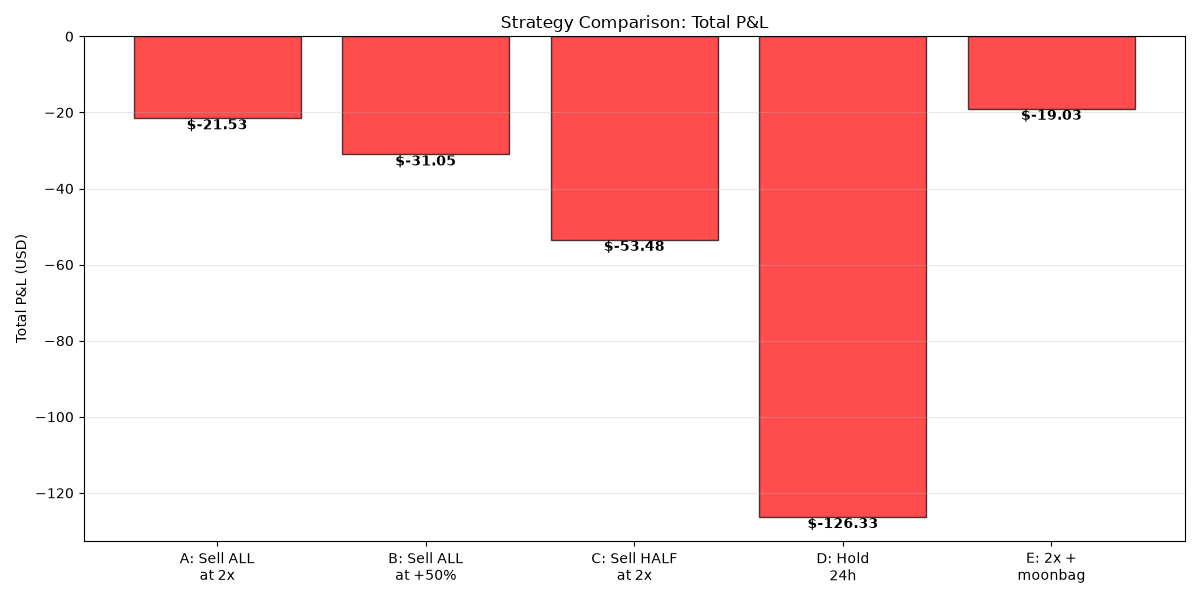
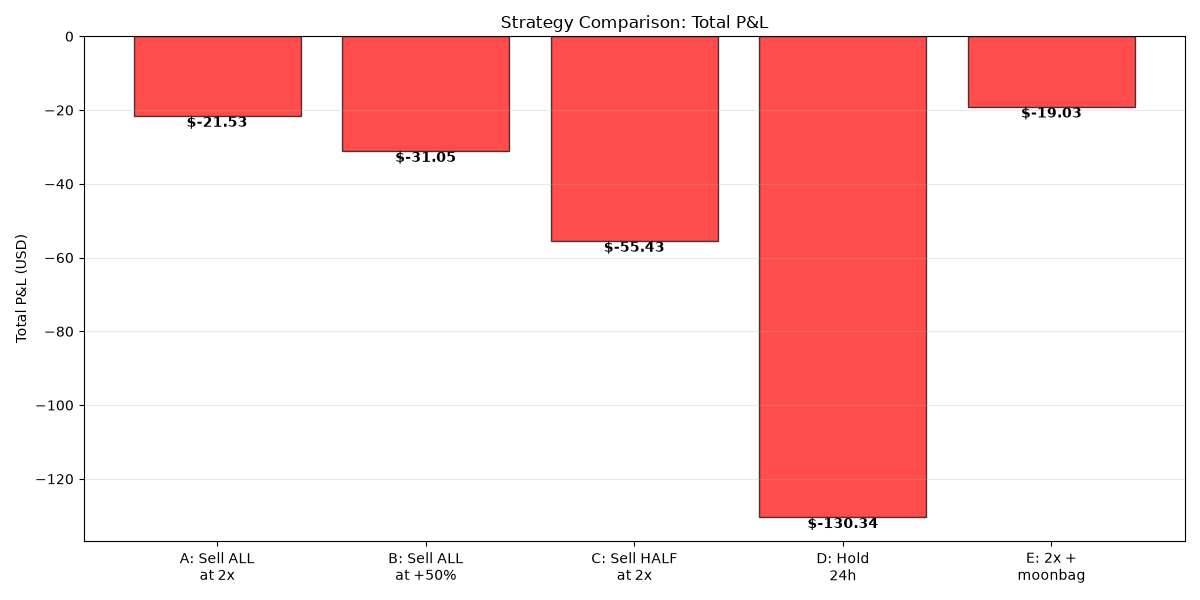
Update paper-trading dashboard [skip ci]

diff --git a/dashboard/index.html b/dashboard/index.html
@@ -483,7 +483,7 @@
             </div>
             <div class="header-meta">
                 <span class="badge badge-warning">📝 PAPER TRADING — no real money</span>
-                <span class="badge badge-info">Last updated: 2026-10-24 16:50 CEST</span>
+                <span class="badge badge-info">Last updated: 2026-10-24 17:08 CEST</span>
             </div>
             <p style="margin-top: 16px; color: var(--text-muted); font-size: 13px;">
                 Built with ❤ by <a href="https://x.com/francescoswiss" target="_blank" rel="noopener" style="color: var(--text-primary); text-decoration: none; transition: opacity 0.2s;">Francesco Andreoli</a>
@@ -528,7 +528,7 @@
             <td>
                 A: Sell ALL at 2x <span class="active-badge">Active Rule</span>
                 <div class="strategy-bar-container">
-                    <div class="strategy-bar" style="width: 17.045683543391295%; background: #ef4444;"></div>
+                    <div class="strategy-bar" style="width: 16.520997107484845%; background: #ef4444;"></div>
                 </div>
             </td>
             <td class="number pnl-negative">−$21.53</td>
@@ -538,7 +538,7 @@
             <td>
                 E: 2x + moonbag <span class="testing-badge">Testing</span>
                 <div class="strategy-bar-container">
-                    <div class="strategy-bar" style="width: 15.064216012960824%; background: #ef4444;"></div>
+                    <div class="strategy-bar" style="width: 14.60052150699132%; background: #ef4444;"></div>
                 </div>
             </td>
             <td class="number pnl-negative">−$19.03</td>
@@ -548,7 +548,7 @@
             <td>
                 B: Sell ALL at +50% 
                 <div class="strategy-bar-container">
-                    <div class="strategy-bar" style="width: 24.57828414887058%; background: #ef4444;"></div>
+                    <div class="strategy-bar" style="width: 23.821735297195648%; background: #ef4444;"></div>
                 </div>
             </td>
             <td class="number pnl-negative">−$31.05</td>
@@ -558,10 +558,10 @@
             <td>
                 C: Sell HALF at 2x 
                 <div class="strategy-bar-container">
-                    <div class="strategy-bar" style="width: 42.33484963753376%; background: #ef4444;"></div>
+                    <div class="strategy-bar" style="width: 42.52642207948896%; background: #ef4444;"></div>
                 </div>
             </td>
-            <td class="number pnl-negative">−$53.48</td>
+            <td class="number pnl-negative">−$55.43</td>
         </tr>
         
         <tr class="">
@@ -571,7 +571,7 @@
                     <div class="strategy-bar" style="width: 100.0%; background: #ef4444;"></div>
                 </div>
             </td>
-            <td class="number pnl-negative">−$126.33</td>
+            <td class="number pnl-negative">−$130.34</td>
         </tr>
         
                 </tbody>
@@ -947,7 +947,7 @@
             </td>
             <td>2026-10-24 10:42 CEST</td>
             <td class="number">$21,004</td>
-            <td class="number">$3,870</td>
+            <td class="number">$3,622</td>
             <td class="number">0.49x</td>
             <td><span class="status-pill status-stopped">Stopped −50%</span></td>
             <td class="number pnl-negative">−$5.24</td>
@@ -999,7 +999,7 @@
             </td>
             <td>2026-10-24 16:07 CEST</td>
             <td class="number">$10,545</td>
-            <td class="number">$11,374</td>
+            <td class="number">$6,901</td>
             <td class="number">6.72x</td>
             <td><span class="status-pill status-hit-target">Hit 2x</span></td>
             <td class="number pnl-positive">+$9.03</td>
@@ -1036,9 +1036,9 @@
             <div class="kpi-card" style="margin-bottom: 20px;">
                 <div class="kpi-label">Filters Impact</div>
                 <div class="kpi-value positive">
-                    +$330.98
+                    +$337.28
                 </div>
-                <div class="kpi-sub">Saved • 76 calls</div>
+                <div class="kpi-sub">Saved • 78 calls</div>
             </div>
             
             
@@ -1569,7 +1569,7 @@
                             <td><strong>DESSA</strong></td>
                             <td><code style="font-size: 11px;">copy+dev-out</code></td>
                             <td class="number">1.31x</td>
-                            <td class="number pnl-negative">−$4.45</td>
+                            <td class="number pnl-negative">−$5.24</td>
                         </tr>
             
                         <tr>
@@ -1586,6 +1586,20 @@
                             <td class="number pnl-negative">−$10.00</td>
                         </tr>
             
+                        <tr>
+                            <td><strong>swordcat</strong></td>
+                            <td><code style="font-size: 11px;">copy of bigger swordcat (5tCju $1.9M)</code></td>
+                            <td class="number">0.04x</td>
+                            <td class="number pnl-negative">−$5.24</td>
+                        </tr>
+            
+                        <tr>
+                            <td><strong>BWB</strong></td>
+                            <td><code style="font-size: 11px;">dev-out</code></td>
+                            <td class="number">1.00x</td>
+                            <td class="number pnl-negative">−$0.26</td>
+                        </tr>
+            
                     </tbody>
                 </table>
             </div>
@@ -1596,7 +1610,7 @@
         <footer>
             <p>Paper-trading simulation only • No real trades executed • Data auto-refreshed hourly</p>
             <p style="margin-top: 8px;">Strategy A: Sell ALL at 2x, -50% stop, 0.45% fee + 2% slippage</p>
-            <p style="margin-top: 8px; color: var(--text-muted);">4 EXC calls • 76 missed calls tracked</p>
+            <p style="margin-top: 8px; color: var(--text-muted);">4 EXC calls • 78 missed calls tracked</p>
             <p style="margin-top: 16px; color: var(--text-muted);">
                 Built with ❤ by <a href="https://x.com/francescoswiss" target="_blank" rel="noopener" style="color: var(--text-primary); text-decoration: none; transition: opacity 0.2s;">Francesco Andreoli</a>
             </p>

diff --git a/README.md b/README.md
@@ -6,9 +6,9 @@
 
 This dashboard tracks theoretical P&L from Solana memecoin alerts. **No actual trades are executed.**
 
-**Last Updated:** 2026-10-24 16:50 CEST
+**Last Updated:** 2026-10-24 17:08 CEST
 
-**Tracked:** 15 real alerts + 76 missed (filtered out)
+**Tracked:** 15 real alerts + 78 missed (filtered out)
 
 ---
 
@@ -28,8 +28,8 @@ All strategies use:
 |----------|-------------|--------------|-----------|----------|---------|------------|-------------|
 | A: Sell ALL at 2x | Sell all at 2x, -50% stop | 15 | **$-21.53** | 26.7% | $-1.44 | $9.03 | $-5.24 |
 | B: Sell ALL at +50% | Sell all at 1.5x, -50% stop | 15 | **$-31.05** | 33.3% | $-2.07 | $4.27 | $-5.24 |
-| C: Sell HALF at 2x | Sell half at 2x, hold rest, -50% stop | 15 | **$-53.48** | 13.3% | $-3.57 | $4.78 | $-5.24 |
-| D: Hold 24h | Hold 24h then sell | 15 | **$-126.33** | 6.7% | $-8.42 | $0.77 | $-9.87 |
+| C: Sell HALF at 2x | Sell half at 2x, hold rest, -50% stop | 15 | **$-55.43** | 13.3% | $-3.70 | $2.83 | $-5.24 |
+| D: Hold 24h | Hold 24h then sell | 15 | **$-130.34** | 0.0% | $-8.69 | $-3.13 | $-9.87 |
 | ⭐ E: 2x + moonbag | Sell 85% at 2x, keep 15% moonbag (narr ≥4) | 15 | **$-19.03** | 26.7% | $-1.27 | $14.37 | $-5.24 |
 
 ---
@@ -52,13 +52,13 @@ All strategies use:
 
 | Type | Count | Total P&L | Realized | Unrealized | Win Rate | Avg Max Multiple |
 |------|-------|-----------|----------|------------|----------|------------------|
-| new | 15 | $-53.48 | $-39.60 | $-13.88 | 13.3% | 1.87x |
+| new | 15 | $-55.43 | $-39.60 | $-15.83 | 13.3% | 1.87x |
 
 ### Strategy D: Hold 24h
 
 | Type | Count | Total P&L | Win Rate | Avg Max Multiple |
 |------|-------|-----------|----------|------------------|
-| new | 15 | $-126.33 | 6.7% | 1.87x |
+| new | 15 | $-130.34 | 0.0% | 1.87x |
 
 ---
 
